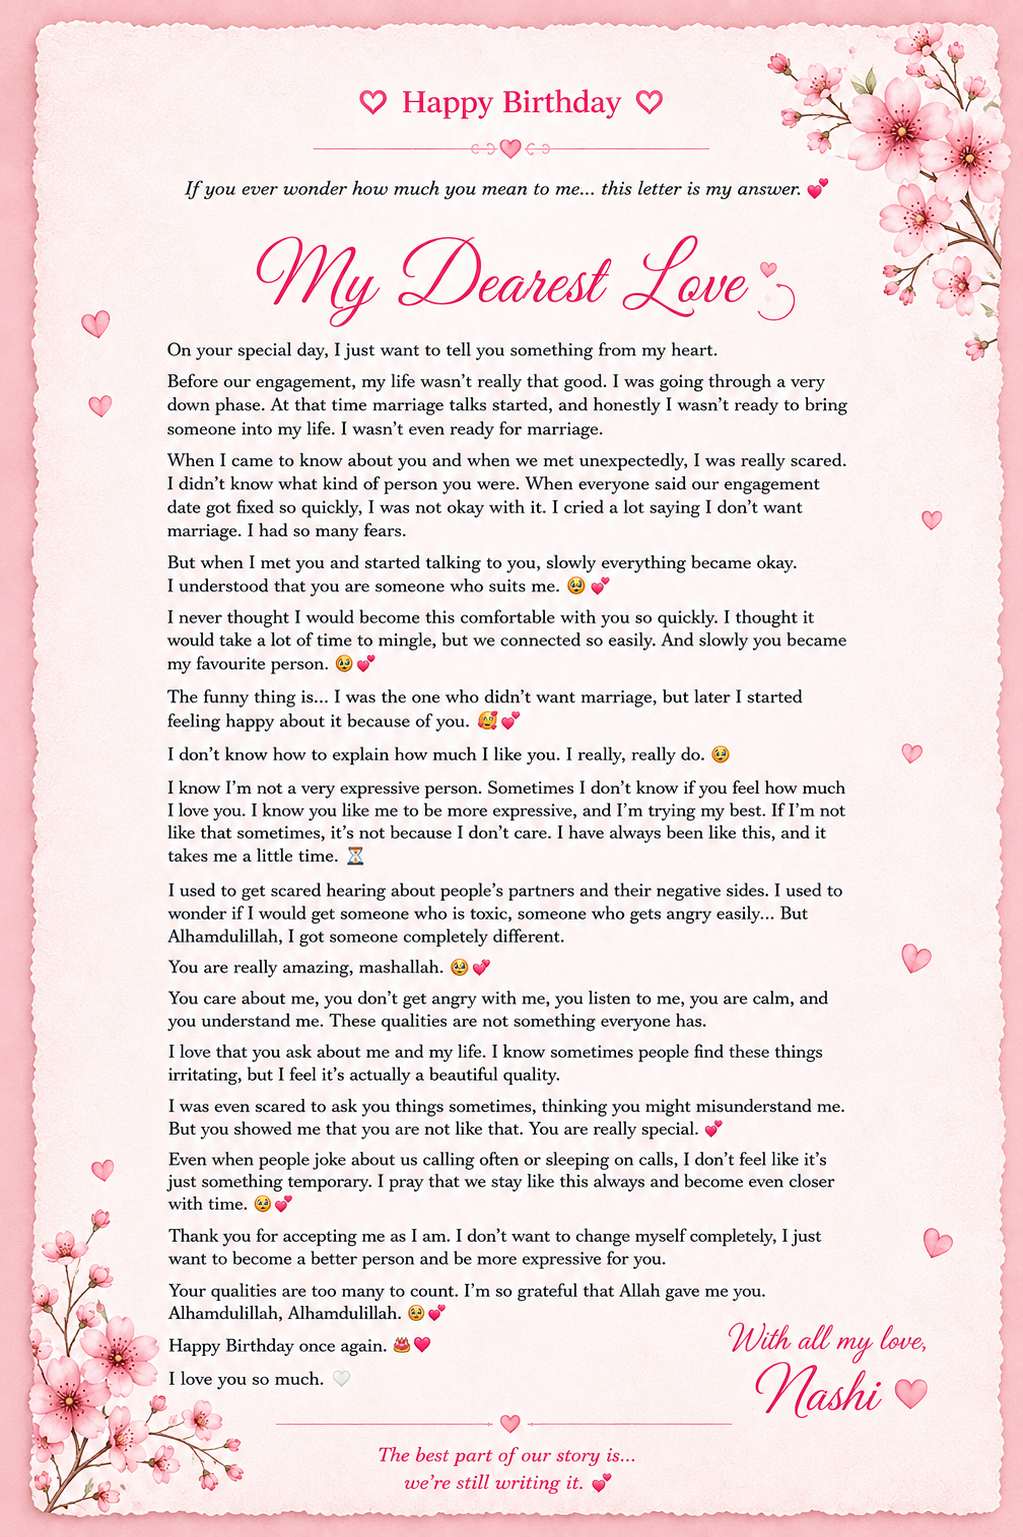
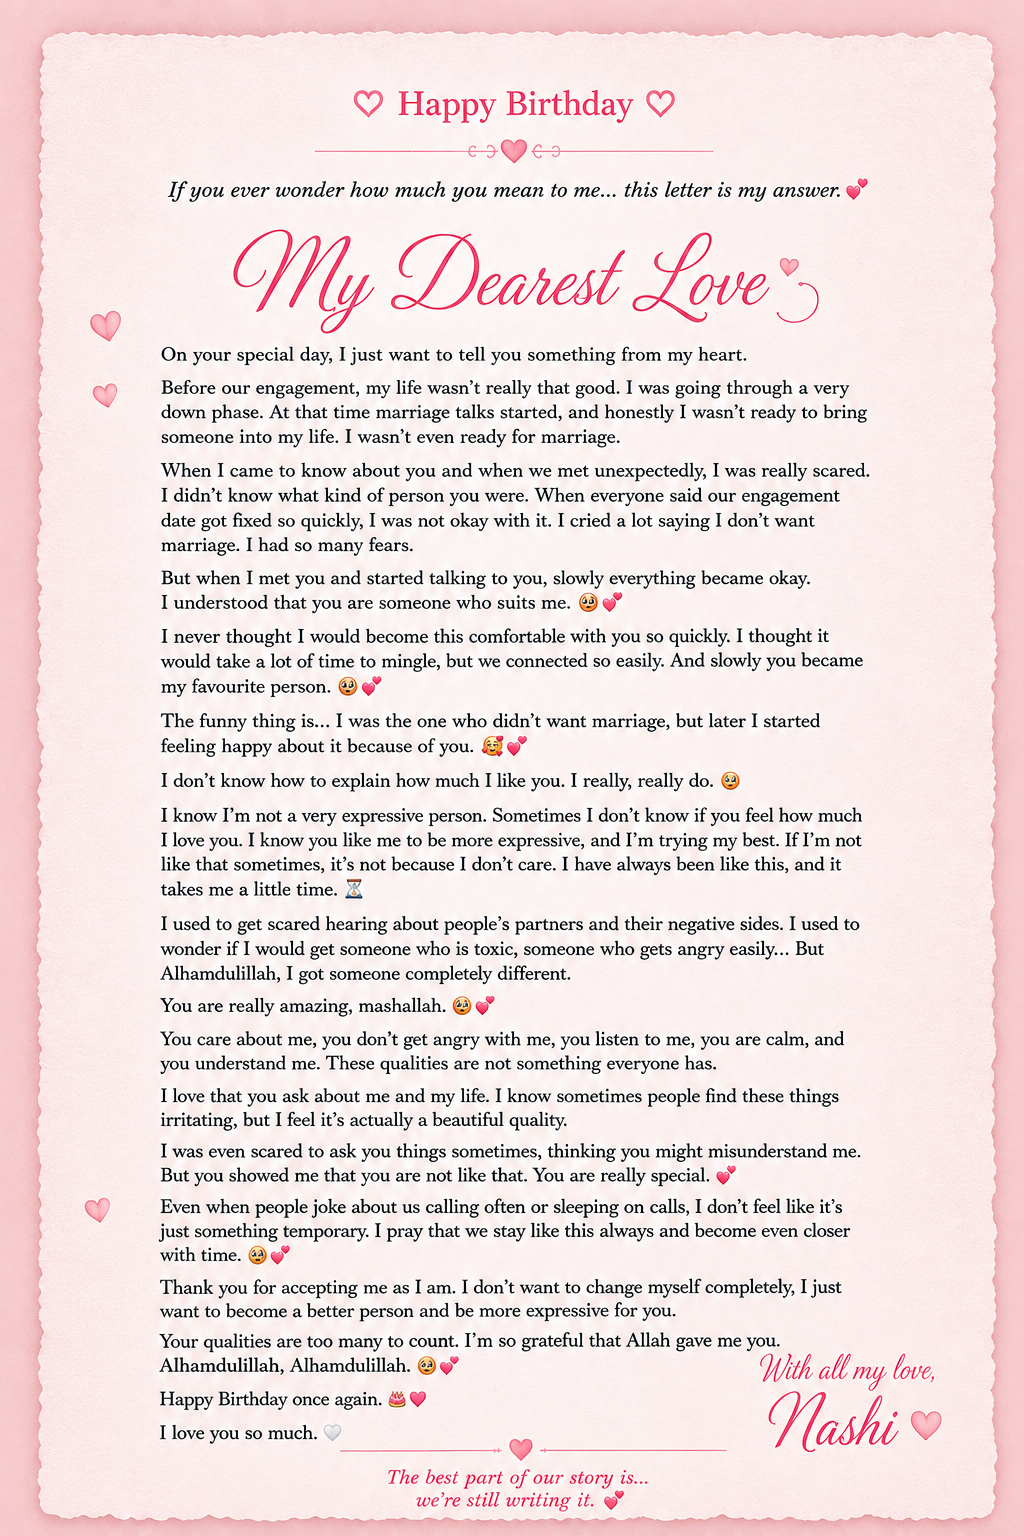
Add files via upload

diff --git a/letter_premium.html b/letter_premium.html
@@ -3,36 +3,33 @@
 <head>
 <meta charset="UTF-8">
 <meta name="viewport" content="width=device-width, initial-scale=1.0">
-
 <title>My Letter ❤</title>
 
 <style>
-
 *{
-margin:0;
-padding:0;
-box-sizing:border-box;
+    margin:0;
+    padding:0;
+    box-sizing:border-box;
 }
 
 body{
-background:#e8dcc7;
-display:flex;
-justify-content:center;
-align-items:center;
-min-height:100vh;
-padding:20px;
+    min-height:100vh;
+    display:flex;
+    justify-content:center;
+    align-items:center;
+    padding:20px;
+    background:#ffe4ee;
 }
 
 img{
-width:100%;
-max-width:900px;
-height:auto;
-border-radius:10px;
+    width:100%;
+    max-width:900px;
+    height:auto;
+    border-radius:10px;
+    box-shadow:0 10px 25px rgba(0,0,0,0.12);
 }
-
 </style>
 </head>
-
 <body>
 
 <img src="letter.png" alt="Letter">
